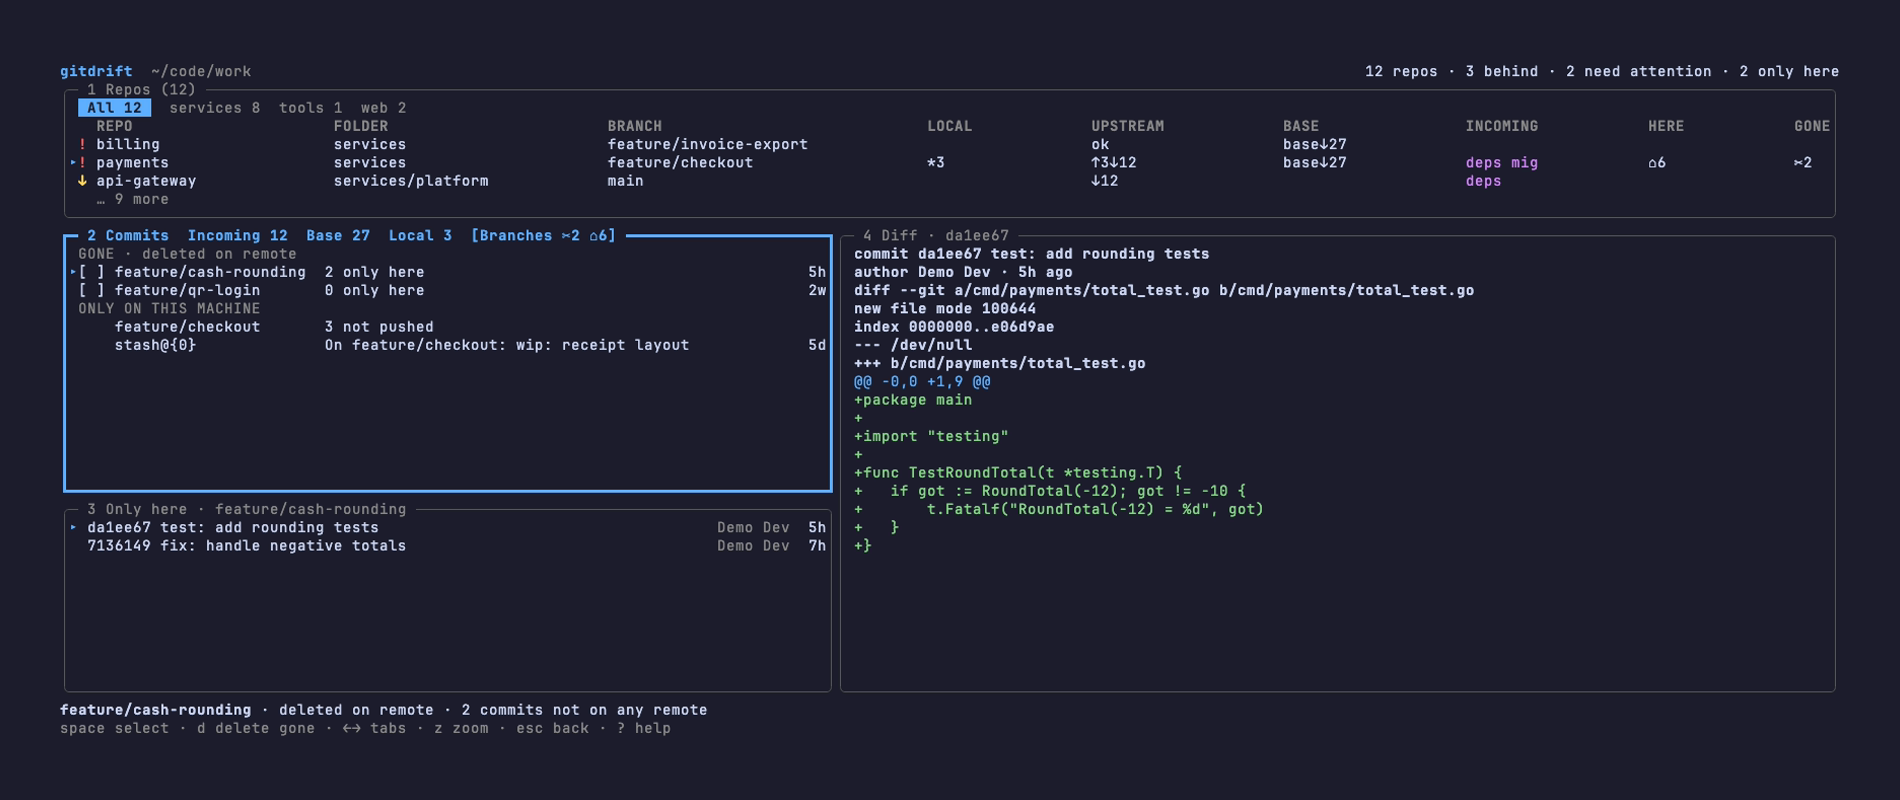
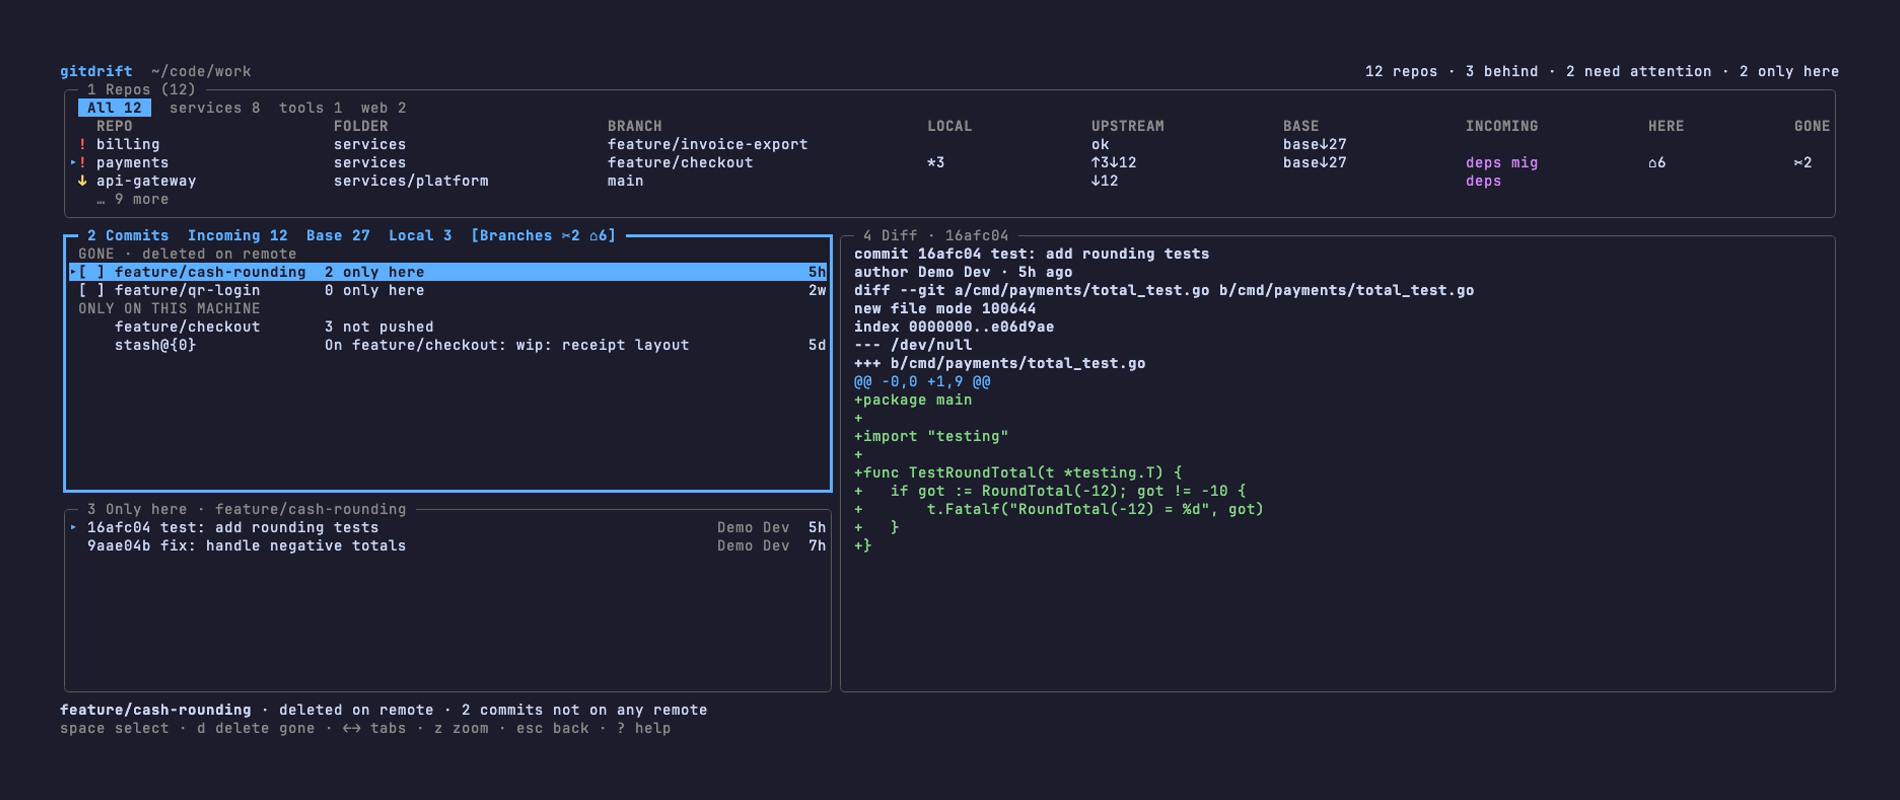
feat(ui): draw the cursor row of the focused list as a reverse video bar

Changed region(s): [[0.0311, 0.3125, 0.4347, 0.375], [0.4968, 0.2812, 0.5279, 0.3438], [0.0311, 0.6562, 0.0932, 0.6875]]

diff --git a/internal/ui/picker_test.go b/internal/ui/picker_test.go
@@ -3,9 +3,11 @@ package ui
 import (
 	"errors"
 	"fmt"
+	"regexp"
 	"strings"
 	"testing"
 
+	"github.com/charmbracelet/x/ansi"
 	"github.com/google/go-cmp/cmp"
 
 	"github.com/epicentre/gitdrift/internal/drift"
@@ -327,5 +329,49 @@ func TestBasePickerScrolls(t *testing.T) {
 
 	if got := viewText(m); strings.Contains(got, "origin/topic-00") {
 		t.Errorf("the picker did not scroll:\n%s", got)
+	}
+}
+
+// TestBasePickerCursorBar draws the entry under the picker's cursor as the
+// cursor bar across the window, as the focused pane draws its cursor row.
+func TestBasePickerCursorBar(t *testing.T) {
+	t.Parallel()
+	skipEastAsianWidths(t)
+
+	m, fake := newTestModel(t, fixtureSnapshots(fixedNow), 120, 40)
+	fake.setRemoteBranches([]string{refOriginDevelop, refOriginMain, "origin/release-2026.10"})
+	m = openPicker(t, loadAll(t, m, fake))
+
+	// The dialog is drawn in the thick border of the focused window, one
+	// cell of padding inside it.
+	entry := regexp.MustCompile("┃ (" + cursorMark + "[^┃]*) ┃")
+
+	for _, keys := range [][]string{nil, {keyUp}, {keyUp, keyUp}} {
+		m := press(t, m, keys...)
+
+		f, ok := m.frame()
+		if !ok {
+			t.Fatalf("after %q no dialog is laid out", keys)
+		}
+
+		match := entry.FindStringSubmatch(viewText(m))
+		if match == nil {
+			t.Fatalf("after %q the picker shows no cursor entry:\n%s", keys, viewText(m))
+		}
+
+		row := match[1]
+		if w := ansi.StringWidth(row); w != f.inner {
+			t.Errorf("after %q the cursor entry %q is %d cells wide, want the window's %d", keys, row, w, f.inner)
+		}
+
+		if !strings.Contains(m.View().Content, m.styles.CursorLine.Render(row)) {
+			t.Errorf("after %q the cursor entry %q is not drawn as the cursor bar", keys, row)
+		}
+	}
+
+	// The picker takes the keys, so the focused pane under it shows only
+	// the gutter mark: one bar on screen, where the arrows move.
+	if row := cursorRowIn(t, m, PaneRepos); strings.Contains(m.View().Content, m.styles.CursorLine.Render(row)) {
+		t.Errorf("the Repos cursor row %q is drawn as the cursor bar under the picker", row)
 	}
 }

diff --git a/internal/ui/model_test.go b/internal/ui/model_test.go
@@ -1313,3 +1313,64 @@ func TestKeyMapHelp(t *testing.T) {
 		t.Errorf("bound keys mismatch (-want +got):\n%s", diff)
 	}
 }
+
+// TestCursorRowReversedInFocusedPane checks that the row under the cursor of
+// the focused pane is drawn as a bar in the cursor line style across the
+// pane, so that it stands out while the arrows move through a list, and that
+// the cursor rows of the other panes keep only their gutter mark.
+func TestCursorRowReversedInFocusedPane(t *testing.T) {
+	t.Parallel()
+	skipEastAsianWidths(t)
+
+	repos, _ := paymentsModel(t, 100, 24)
+	branches, _ := branchesModel(t, fixtureSnapshots(fixedNow), 100, 24)
+
+	tests := []struct {
+		name  string
+		m     Model
+		focus Pane
+		panes []Pane
+	}{
+		{"Repos", repos, PaneRepos, []Pane{PaneRepos, PaneCommits, PaneFiles}},
+		{"zoom table", pressSettle(t, repos, "z"), PaneRepos, []Pane{PaneRepos}},
+		{"Branches tab", branches, PaneCommits, []Pane{PaneRepos, PaneCommits, PaneFiles}},
+		{"Only here", pressSettle(t, branches, keyTab), PaneFiles, []Pane{PaneRepos, PaneCommits, PaneFiles}},
+	}
+
+	for _, tt := range tests {
+		t.Run(tt.name, func(t *testing.T) {
+			t.Parallel()
+
+			if tt.m.focus != tt.focus {
+				t.Fatalf("focus = %d, want %d", tt.m.focus, tt.focus)
+			}
+
+			view := tt.m.View().Content
+
+			for _, p := range tt.panes {
+				row := cursorRowIn(t, tt.m, p)
+				bar := strings.Contains(view, tt.m.styles.CursorLine.Render(row))
+
+				if want := p == tt.focus; bar != want {
+					t.Errorf("pane %d cursor row %q drawn as the cursor bar = %t, want %t", p, row, bar, want)
+				}
+			}
+		})
+	}
+}
+
+// cursorRowIn returns the line inside pane p, without styling, that carries
+// the cursor mark in its gutter.
+func cursorRowIn(t *testing.T, m Model, p Pane) string {
+	t.Helper()
+
+	for _, line := range paneInside(t, m, p) {
+		if strings.HasPrefix(strings.TrimLeft(line, " "), cursorMark) {
+			return line
+		}
+	}
+
+	t.Fatalf("pane %d has no cursor row", p)
+
+	return ""
+}

diff --git a/internal/ui/picker.go b/internal/ui/picker.go
@@ -92,7 +92,9 @@ func (p basePicker) refiltered() basePicker {
 // lines.
 func pickerRows(height int) int { return max(height-pickerHeadRows, 1) }
 
-func (p basePicker) view(env dialogEnv, _, height int) dialogView {
+// view lays the picker out. The entry under the cursor is the cursor bar
+// across the window (see cursorBar), as in the focused pane.
+func (p basePicker) view(env dialogEnv, width, height int) dialogView {
 	current := "current: none"
 	if p.current.Ref != "" {
 		current = "current: " + sanitize(p.current.Ref) + " (" + string(p.current.Source) + ")"
@@ -101,8 +103,13 @@ func (p basePicker) view(env dialogEnv, _, height int) dialogView {
 	body := []string{current, "filter: " + sanitize(p.filter), ""}
 	entries := p.entries()
 	start, end := scrollWindow(len(entries), p.cursor, p.top, pickerRows(height))
+	cursorLine := -1
 
 	for i := start; i < end; i++ {
+		if i == p.cursor {
+			cursorLine = len(body)
+		}
+
 		body = append(body, entries[i].line(i == p.cursor, env.st))
 	}
 
@@ -119,7 +126,15 @@ func (p basePicker) view(env dialogEnv, _, height int) dialogView {
 		body = append(body, env.st.Muted.Render(noMatches))
 	}
 
-	return dialogView{title: "Base for " + repoLabel(p.loc), body: body, footer: footerPicker, width: p.width()}
+	v := dialogView{title: "Base for " + repoLabel(p.loc), body: body, footer: footerPicker, width: p.width()}
+
+	// The bar spans the window as frame lays it out: as wide as the widest
+	// line, but never wider than the screen allows.
+	if cursorLine >= 0 {
+		v.body[cursorLine] = cursorBar(v.body[cursorLine], min(v.innerWidth(), width), env.st)
+	}
+
+	return v
 }
 
 // width fits every entry whatever the filter: the widest name after the

diff --git a/internal/ui/commits_test.go b/internal/ui/commits_test.go
@@ -177,3 +177,37 @@ func TestCommitRowAuthorMuted(t *testing.T) {
 		t.Errorf("commitRow() = %q, want the author in the muted style", got)
 	}
 }
+
+// TestCursorBar draws the row under the cursor of the focused pane in the
+// cursor line style across the pane: the row's own styling gives way to the
+// bar, a short row is padded to the pane width and a long one is cut.
+func TestCursorBar(t *testing.T) {
+	t.Parallel()
+
+	st := newStyles(true)
+	line := st.Cursor.Render(cursorMark) + st.Attention.Render("!") + " payments  " + st.Badge.Render("deps")
+
+	tests := []struct {
+		name  string
+		width int
+		want  string
+	}{
+		{"padded to the pane", 24, pad("▸! payments  deps", 24)},
+		{"cut at the pane", 8, "▸! payme"},
+	}
+
+	for _, tt := range tests {
+		t.Run(tt.name, func(t *testing.T) {
+			t.Parallel()
+
+			got := cursorBar(line, tt.width, st)
+			if want := st.CursorLine.Render(tt.want); got != want {
+				t.Errorf("cursorBar() = %q, want %q", got, want)
+			}
+
+			if w := ansi.StringWidth(got); w != tt.width {
+				t.Errorf("cursorBar() width = %d, want %d", w, tt.width)
+			}
+		})
+	}
+}

diff --git a/internal/ui/model.go b/internal/ui/model.go
@@ -341,7 +341,7 @@ func (m Model) reposLines(r Rect) []string {
 			line = repoRow(rw.snap, rw.loaded, m.spinnerOf(rw), selected, note, m.folderTab, l, m.styles)
 		}
 
-		lines = append(lines, m.gutter(i == m.cursor)+line)
+		lines = append(lines, m.paneRow(PaneRepos, i == m.cursor, m.gutter(i == m.cursor)+line, inner))
 	}
 
 	if more := len(rows) - end; more > 0 {
@@ -364,6 +364,19 @@ func (m Model) gutter(isCursor bool) string {
 	default:
 		return " "
 	}
+}
+
+// paneRow returns line, a row of a list in pane p with its cursor gutter, as
+// the pane draws it width cells wide: the row under the cursor of the
+// focused pane as the cursor bar (see cursorBar), any other row as it is.
+// While a dialog is open it takes the keys, and only the dialog may show a
+// bar.
+func (m Model) paneRow(p Pane, isCursor bool, line string, width int) string {
+	if !isCursor || m.focus != p || m.dialog != nil {
+		return line
+	}
+
+	return cursorBar(line, width, m.styles)
 }
 
 // status renders the status line: the filter while it is typed, followed by

diff --git a/internal/ui/styles.go b/internal/ui/styles.go
@@ -20,6 +20,10 @@ type Styles struct {
 	Selected lipgloss.Style
 	// Cursor marks the row under the cursor.
 	Cursor lipgloss.Style
+	// CursorLine draws the row under the cursor of the focused pane as a
+	// bar across the pane; reverse video keeps it apart where colors are
+	// turned off.
+	CursorLine lipgloss.Style
 	// Spinner draws the spinner of a loading row and the header progress.
 	Spinner lipgloss.Style
 	// Badge colors the "what to do after pull" badges.
@@ -61,6 +65,7 @@ func newStyles(isDark bool) Styles {
 		UpToDate:      lipgloss.NewStyle().Foreground(green),
 		Selected:      lipgloss.NewStyle().Foreground(magenta).Bold(true),
 		Cursor:        lipgloss.NewStyle().Foreground(accent).Bold(true),
+		CursorLine:    lipgloss.NewStyle().Foreground(accent).Reverse(true).Bold(true),
 		Spinner:       lipgloss.NewStyle().Foreground(accent),
 		Badge:         lipgloss.NewStyle().Foreground(magenta),
 		Heading:       lipgloss.NewStyle().Foreground(muted).Bold(true),

diff --git a/internal/ui/commits.go b/internal/ui/commits.go
@@ -80,7 +80,8 @@ func (m Model) commitsLines(r Rect) []string {
 	lines := make([]string, 0, end-start+1)
 
 	for i := start; i < end; i++ {
-		lines = append(lines, cursorGutter(i == c.cursor, m.styles)+entry(i))
+		isCursor := i == c.cursor
+		lines = append(lines, m.paneRow(PaneCommits, isCursor, cursorGutter(isCursor, m.styles)+entry(i), r.W-2))
 	}
 
 	return appendMore(lines, more, m.styles)
@@ -218,6 +219,13 @@ func cursorGutter(isCursor bool, st Styles) string {
 	}
 
 	return " "
+}
+
+// cursorBar draws line, the row under the cursor of the focused pane with its
+// gutter, as a bar in the cursor line style across the pane, width cells
+// wide. The bar takes the place of the row's own styling.
+func cursorBar(line string, width int, st Styles) string {
+	return st.CursorLine.Render(fit(ansi.Strip(line), width))
 }
 
 // appendMore ends a list with "… N more" when entries remain below it.

diff --git a/internal/ui/files.go b/internal/ui/files.go
@@ -86,7 +86,8 @@ func (m Model) filesLines(r Rect) []string {
 	}
 
 	for i := start; i < end; i++ {
-		lines = append(lines, cursorGutter(i == f.cursor, m.styles)+entry(i))
+		isCursor := i == f.cursor
+		lines = append(lines, m.paneRow(PaneFiles, isCursor, cursorGutter(isCursor, m.styles)+entry(i), r.W-2))
 	}
 
 	return appendMore(lines, more, m.styles)
